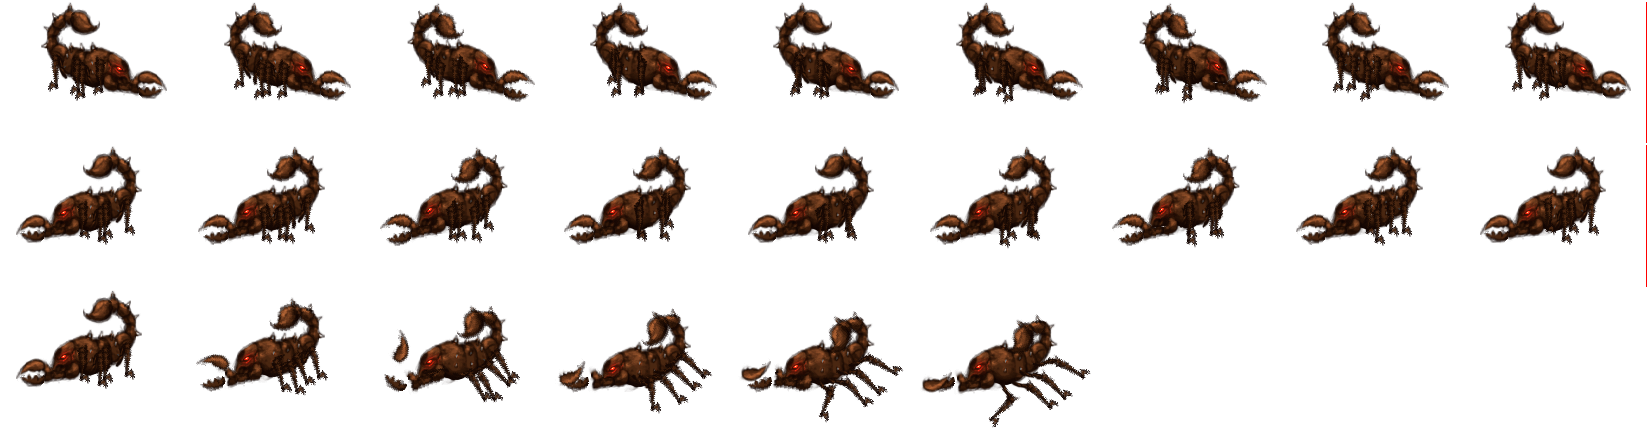
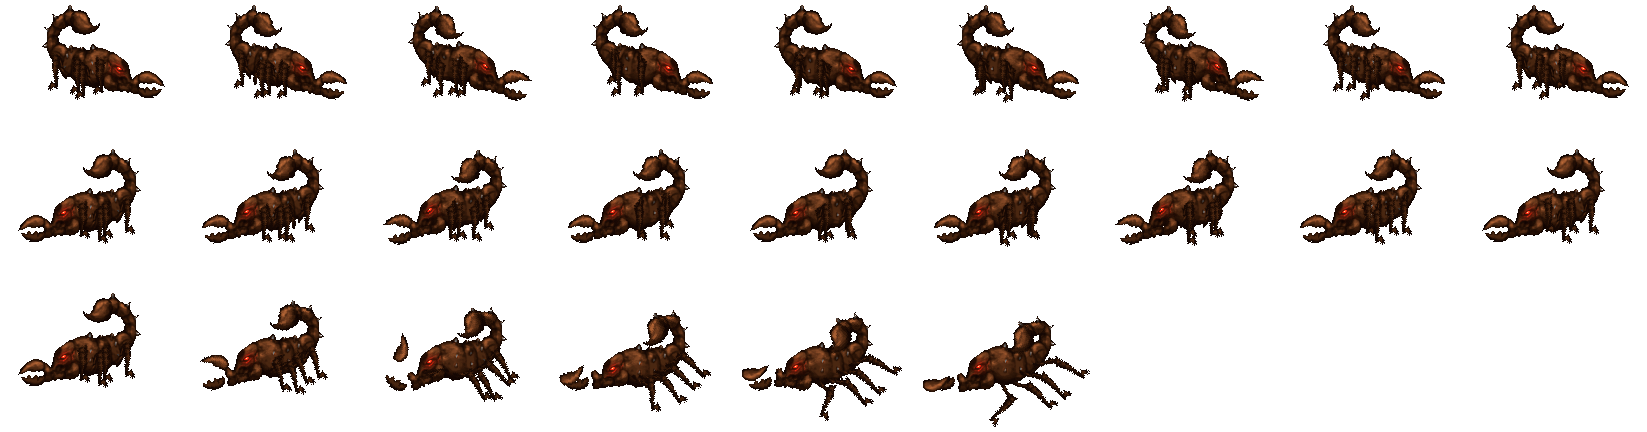
eliminado el 'laser' del boss, si jugador sale de la ventana, regresará al centro dle juego

diff --git a/js/gameObject/player/player.js b/js/gameObject/player/player.js
@@ -319,6 +319,12 @@ function updatePlayer(){
 		this.spiral.visible = false;
 	}
 
+	if(this.y < -30 || this.y > 620 || this.x < -20 || this.x > 820){
+		this.position.setTo(400, 400);
+		this.body.velocity.setTo(0, 0);
+	}
+
+
 	this.blood.update();
 
 	this.eyes.x = this.x;

diff --git a/js/game.js b/js/game.js
@@ -2,7 +2,7 @@
 var game = new Phaser.Game(800, 600, Phaser.AUTO, '');
 
 game.global = {
-	level : 1,
+	level : 5,
 	is_playing : false,
 	lives : 3,
 	health : 100,
